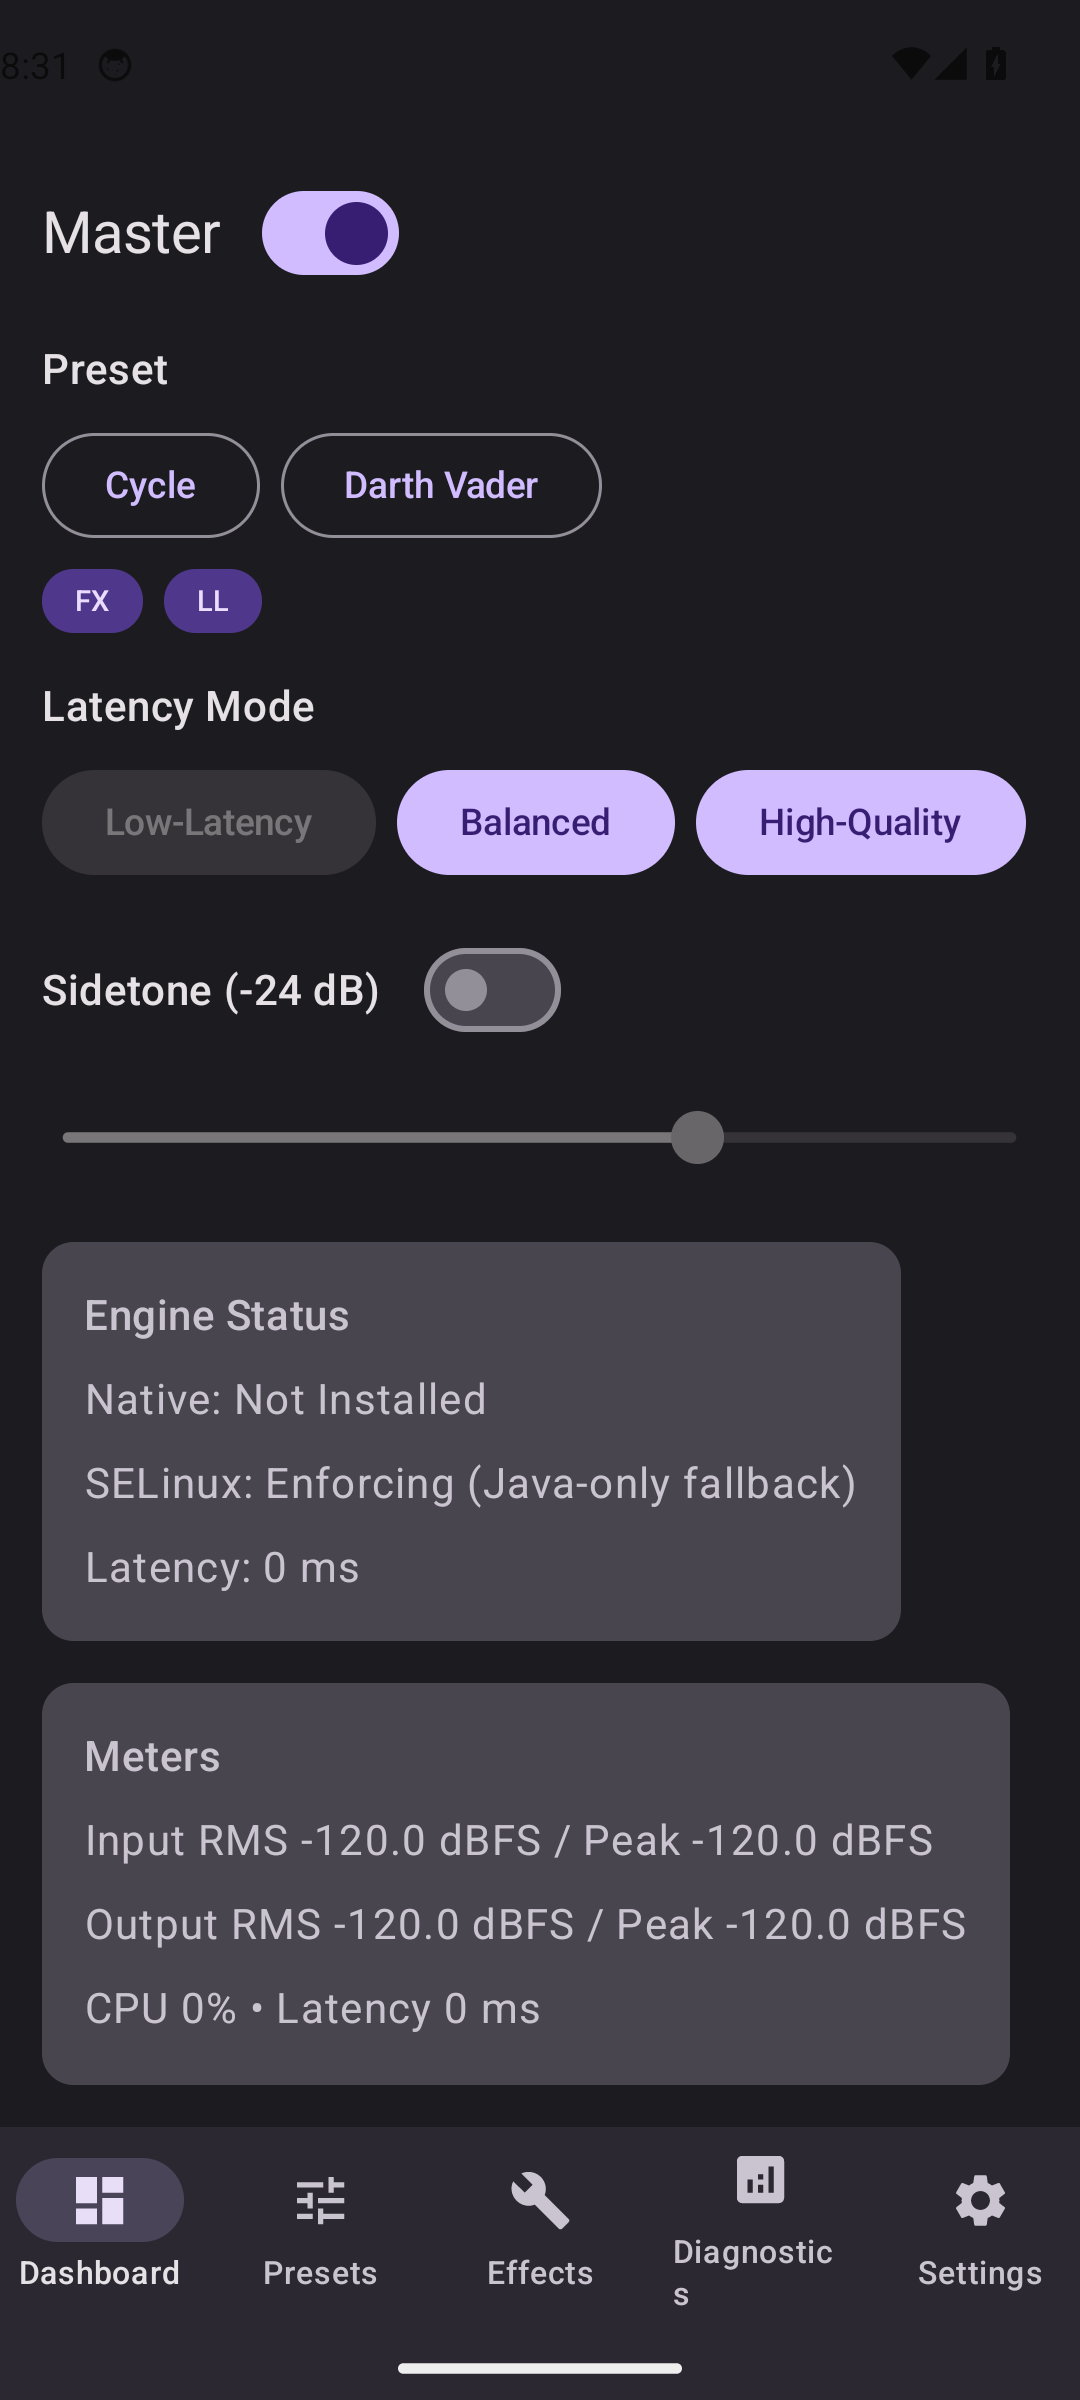
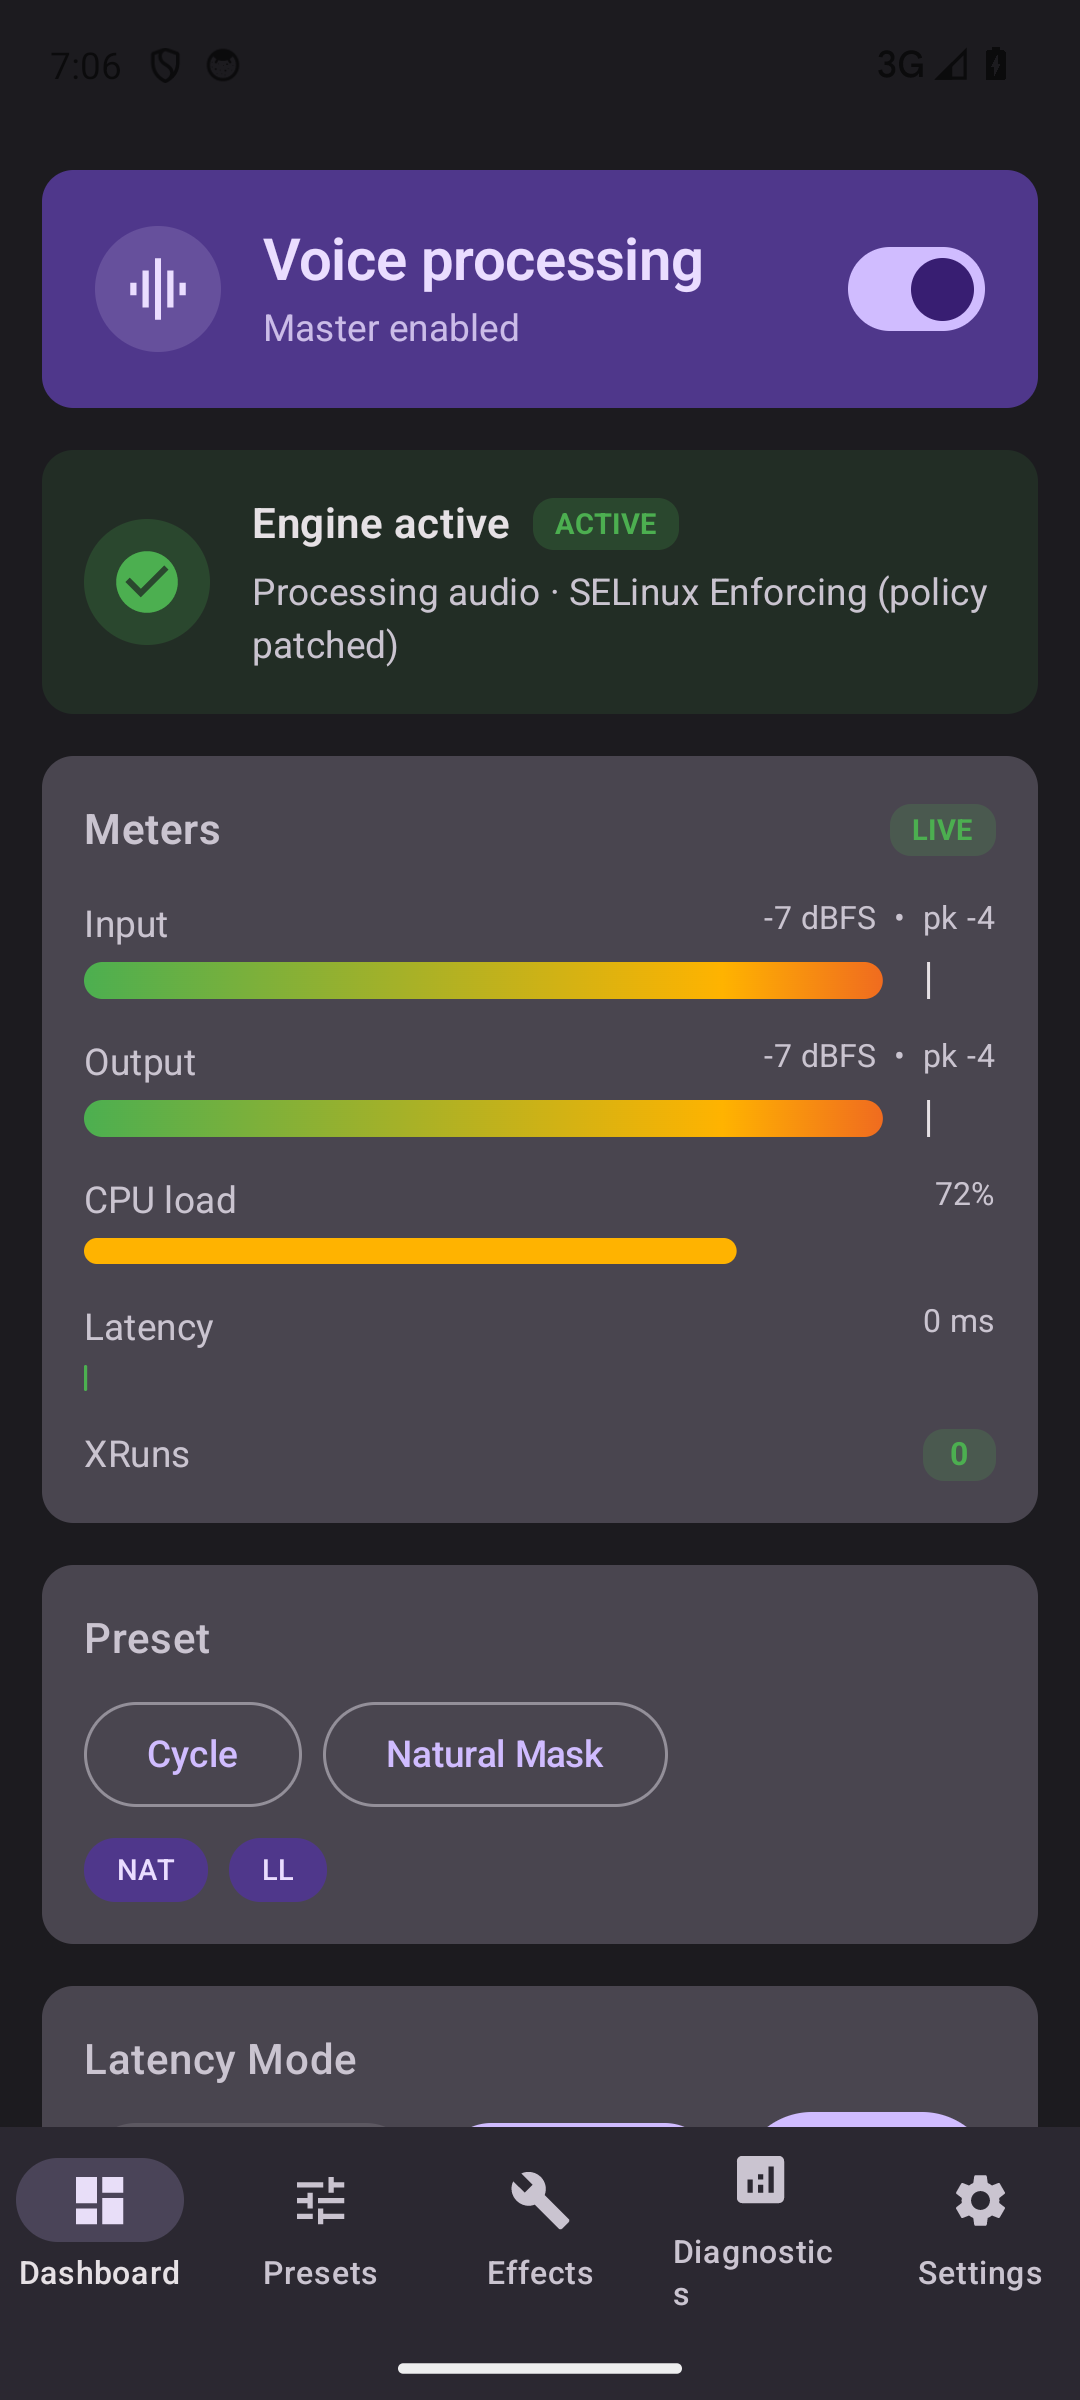
docs: refresh dashboard screenshot

diff --git a/docs/screenshots.md b/docs/screenshots.md
@@ -3,9 +3,13 @@
 This gallery documents the companion app state used for emulator validation and
 UI reference.
 
-- `01-dashboard.png` through `06-whitelist.png`, plus `08-qstile.png`, are real
-  captures from an **unrooted Android 14 (API 34) x86_64 emulator** using
-  `adb exec-out screencap` at 1080 x 2400.
+- `01-dashboard.png` is the current app entry screen, freshly captured from an
+  Android 14 (API 34) x86_64 emulator using `adb shell screencap` at 1080 x
+  2400. The available AVD was rooted with Magisk, so the dashboard shows the
+  active-engine state.
+- `02-presets.png` through `06-whitelist.png`, plus `08-qstile.png`, are earlier
+  real captures from the companion app's fallback state using `adb exec-out
+  screencap` at 1080 x 2400.
 - `07-settings.png` is a **generated UI documentation screenshot**, not a
   device capture. It reflects the current settings state/view-model surface:
   profiles, startup behavior, engine mode, safety, diagnostics, notification,
@@ -15,9 +19,9 @@ The gallery supports the UI scope in [spec section 16][spec-16] and the QA
 split in [spec section 20][spec-20].
 
 !!! warning "Honest state - what the emulator can and cannot show"
-    The real captures come from a **stock, unrooted** emulator, so the native
-    engine is **not installed** and SELinux is enforcing with no policy tool. The
-    app therefore runs its **Java-only fallback**. Diagnostics report **Engine Not
+    Except for the refreshed dashboard entry screenshot, the real captures come
+    from a fallback emulator state, so the native engine is **not installed** and
+    SELinux is enforcing with no policy tool. Diagnostics report **Engine Not
     Installed** with empty telemetry, the Compatibility Wizard reports **Magisk
     not installed / Zygisk disabled / `su` permission denied**, the Quick Settings
     tile shows **Unavailable**, and the audio meters rest at **-120 dBFS**.
@@ -34,16 +38,14 @@ Helium preset bound to Chrome.
 
 ### Dashboard
 
-![Echidna Dashboard with the Darth Vader preset active](assets/screenshots/01-dashboard.png)
+![Echidna Dashboard with Natural Mask active and engine active](assets/screenshots/01-dashboard.png)
 
-The home screen: Master **ON**, active preset **Darth Vader** (FX / low-latency
-tags), Latency Mode set to **Low-Latency**, and Sidetone at -24 dB. The selected
-latency segment renders in a darker tonal style while unselected segments are
-filled purple; that is the app's segmented-control styling.
-
-*Honest state:* the Engine Status card reads **Native Not Installed / SELinux
-Enforcing (Java-only fallback) / Latency 0 ms**, and the meters sit at -120 dBFS
-because there is no live audio path on an unrooted emulator.
+The current app entry screen: Master **ON**, active preset **Natural Mask**,
+and the Dashboard tab selected. This capture was taken from the available rooted
+Android 14 emulator after the status card settled, so the Engine Status card
+reads **Engine active** and the meters show live sample values. This is an app
+state capture, not proof that Magisk flashing or LSPosed injection succeeded in
+the release install flow; those remain covered by [Verification](verification.md).
 
 ## Presets And Effects
 